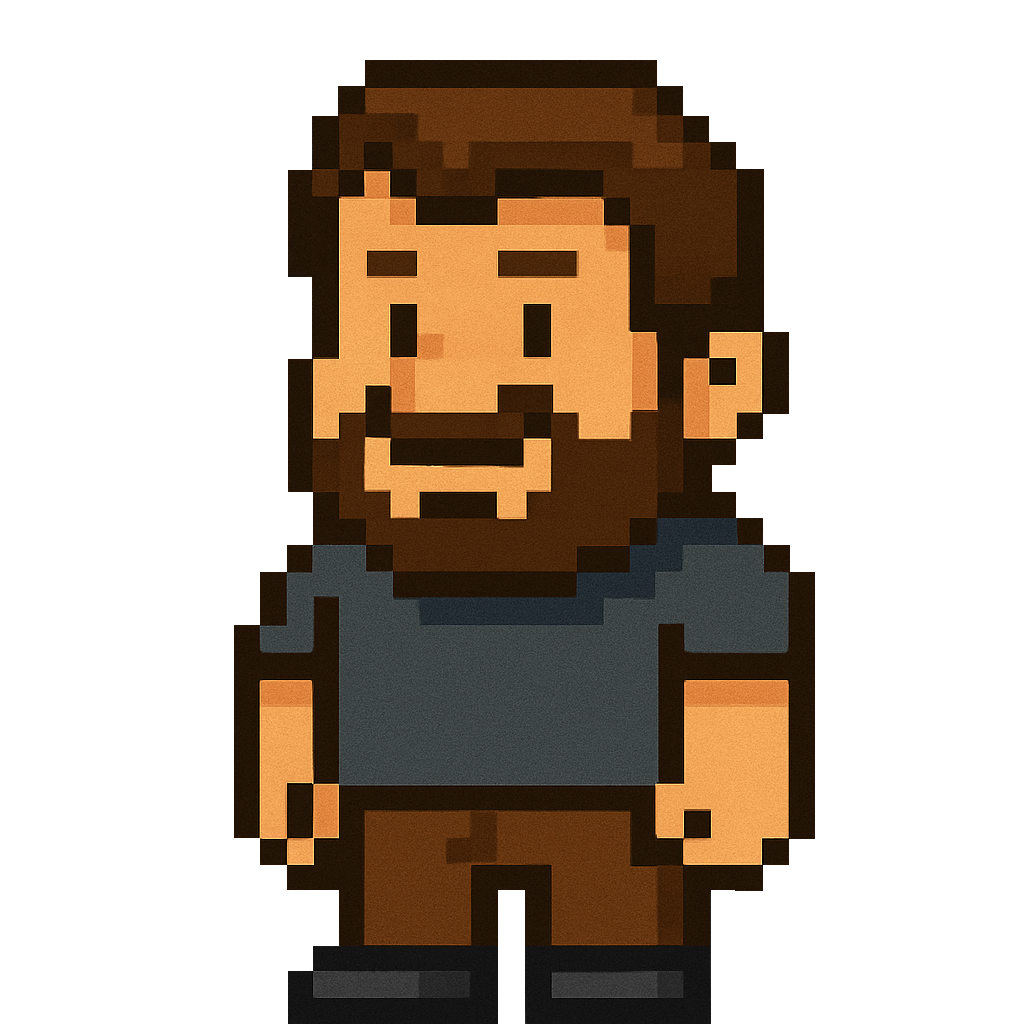
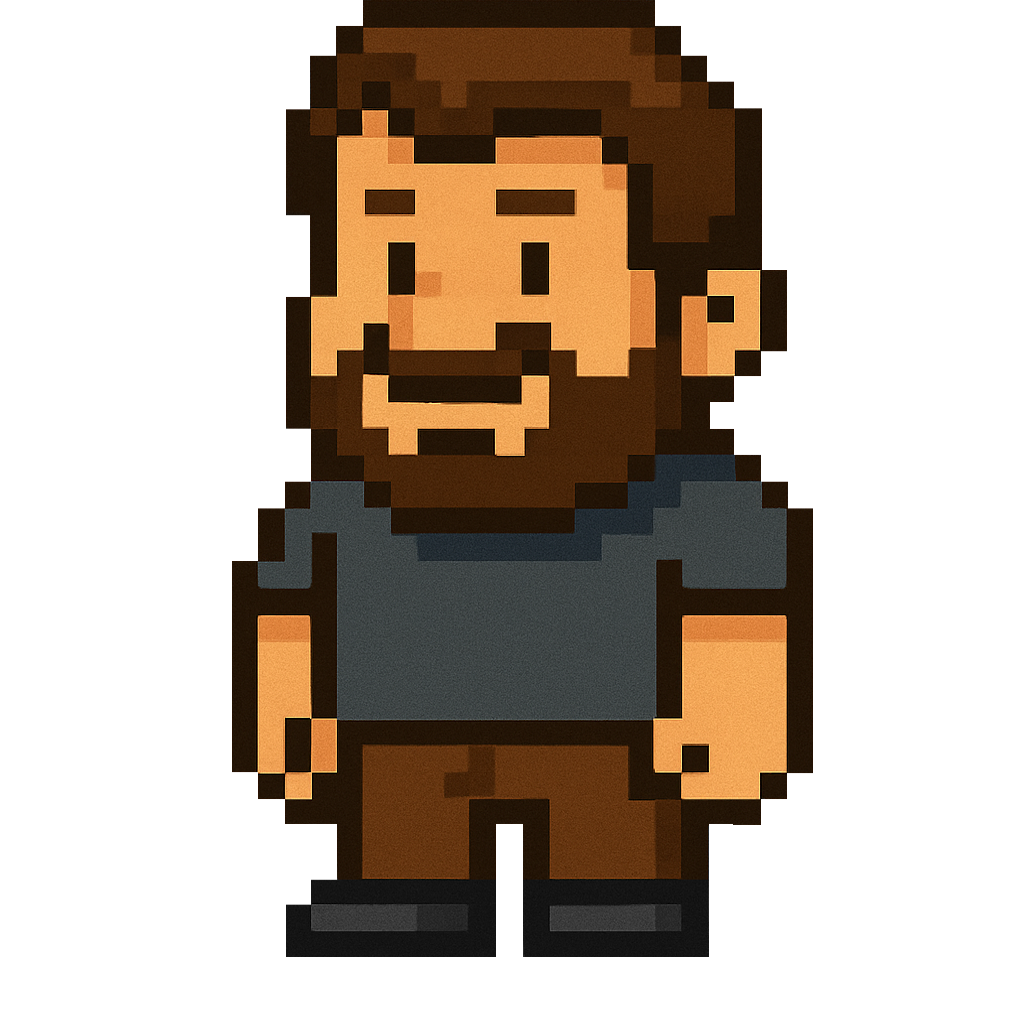
Alteração e modificação Boss3

diff --git a/jogo-vue-base/src/components/BossBase.vue b/jogo-vue-base/src/components/BossBase.vue
@@ -4,7 +4,8 @@
   :src="currentSprite"
   alt="Chefão"
   class="boss"
-  :style="{ left: initialX + 'px', position: 'absolute' }"
+  :class="extraClass"
+  :style="{ left: initialX + 'px', top: initialY + 'px', position: 'absolute' }"
 />
 
 </template>
@@ -18,6 +19,11 @@ const props = defineProps({
   src1: { type: String, required: true },
   src2: { type: String, required: true },
   attackSrc: { type: String, required: true },
+  attackPrepSrc: { type: String, required: false },
+  extraClass: {
+  type: String,
+  default: ""
+}
 });
 
 const emit = defineEmits(["update:x"]);
@@ -30,17 +36,21 @@ const isAttacking = ref(false);
 const idleFrame = ref(0);
 let idleInterval = null;
 
-const currentSprite = computed(() =>
-  isAttacking.value ? props.attackSrc : (idleFrame.value === 0 ? props.src1 : props.src2)
-);
+const currentSprite = ref(props.src1);
 
 // Animação idle
 function startIdleAnimation() {
   if (idleInterval) return;
+
+  idleFrame.value = 0;
+  currentSprite.value = props.src1;
+
   idleInterval = setInterval(() => {
     idleFrame.value = idleFrame.value === 0 ? 1 : 0;
+    currentSprite.value = idleFrame.value === 0 ? props.src1 : props.src2;
   }, 500);
 }
+
 
 
 // Trigger de ataque
@@ -50,10 +60,20 @@ function triggerAttack() {
   clearInterval(idleInterval);
   idleInterval = null;
 
+  // Etapa 1: preparação
+  currentSprite.value = props.attackPrepSrc || props.attackSrc;
+
   setTimeout(() => {
-    isAttacking.value = false;
-    startIdleAnimation();
-  }, 300);
+    // Etapa 2: ataque real
+    currentSprite.value = props.attackSrc;
+
+    setTimeout(() => {
+      // Etapa 3: volta para idle
+      isAttacking.value = false;
+      currentSprite.value = props.src1;
+      startIdleAnimation();
+    }, 250); // tempo que o segundo frame fica visível
+  }, 300); // tempo que o primeiro frame (preparação) fica visível
 }
 
 onMounted(() => {
@@ -82,5 +102,9 @@ defineExpose({
   transition: left 0.2s;
   z-index: 2;
   image-rendering: pixelated;
+}
+.boss3-ataque[src*="bossatk.png"] {
+  transform: scale(1.6);
+  transform-origin: bottom center;
 }
 </style>

diff --git a/jogo-vue-base/src/components/Boss3.vue b/jogo-vue-base/src/components/Boss3.vue
@@ -1,9 +1,11 @@
 <template>
   <BossBase
     ref="bossBaseRef"
-    :initialX="bossX"  :initialY="bossY"  src1="/fase3/boss.png"
+    :initialX="bossX"  
+    src1="/fase3/boss.png"
     src2="/fase3/boss2.png"
     attackSrc="/fase3/bossatk.png"
+    extraClass="boss3-ataque"
     @update:x="onUpdateX"
   />
 </template>
